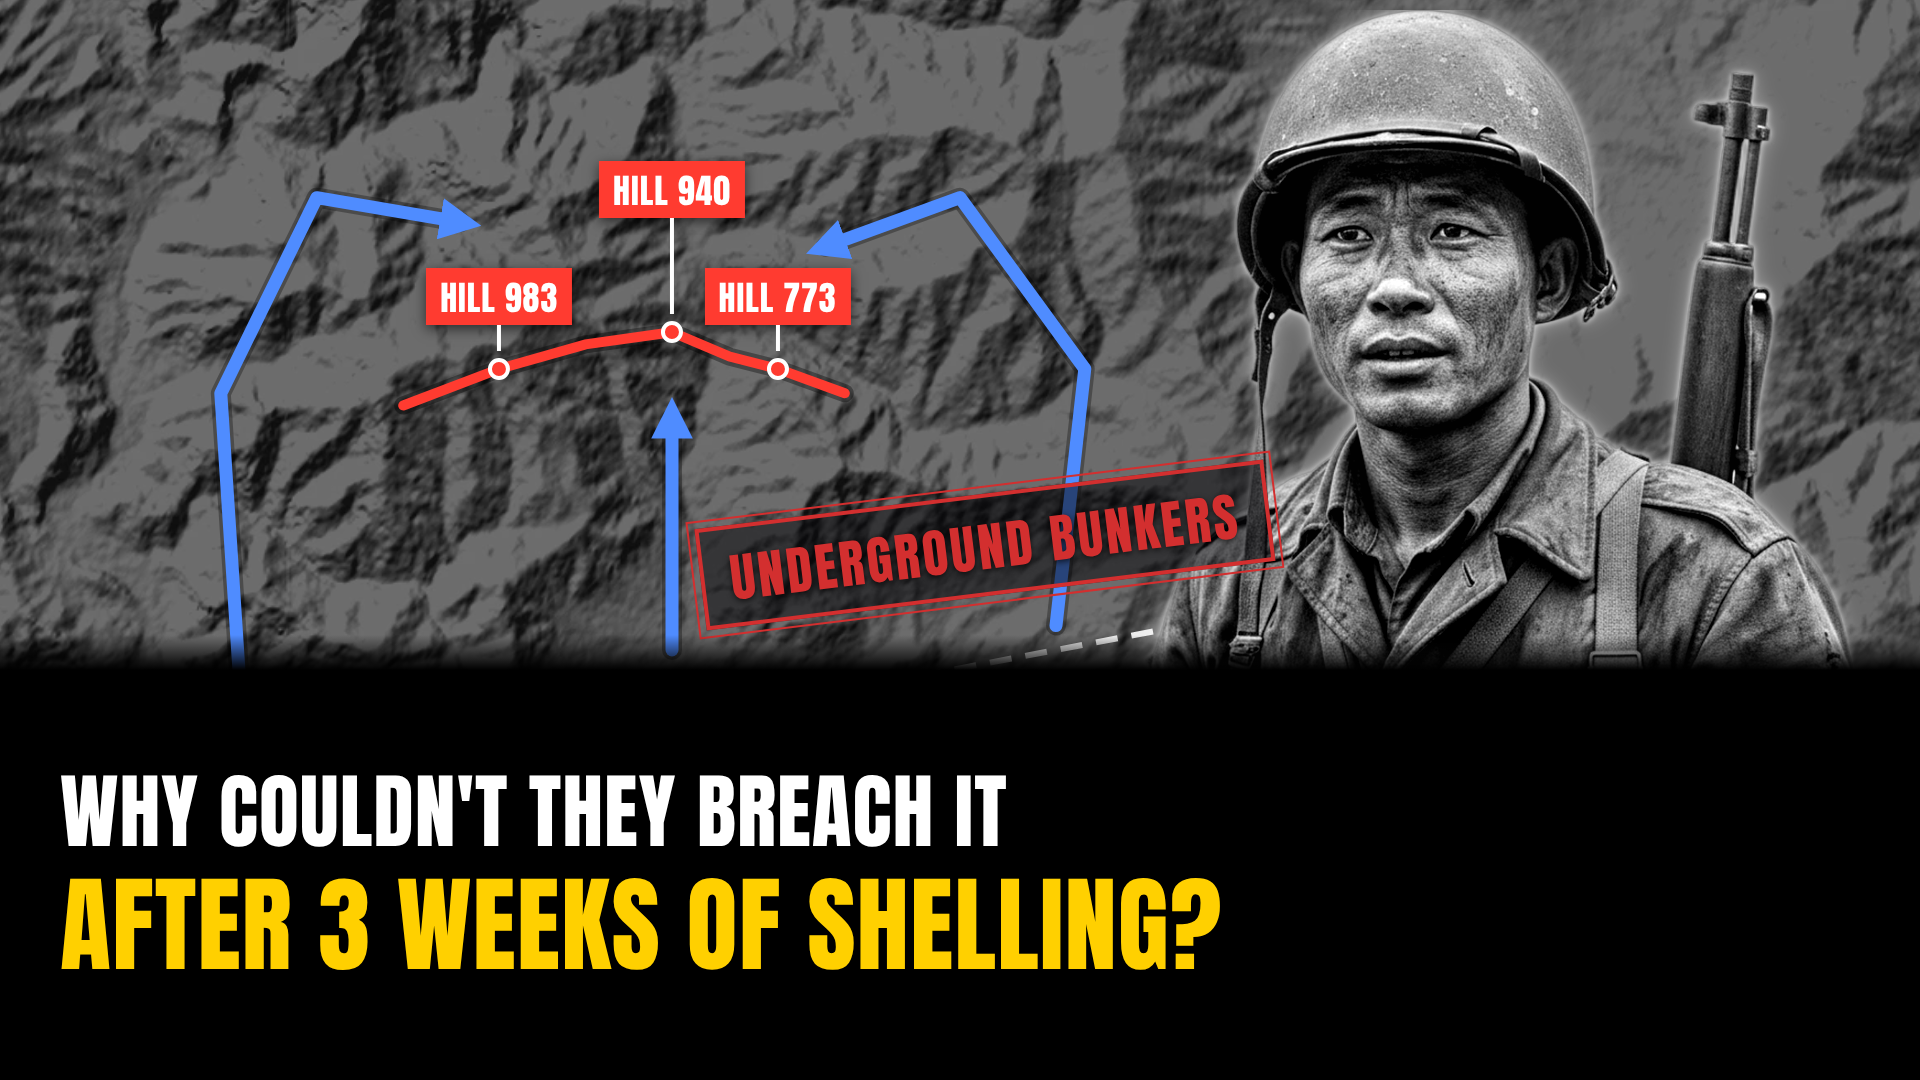
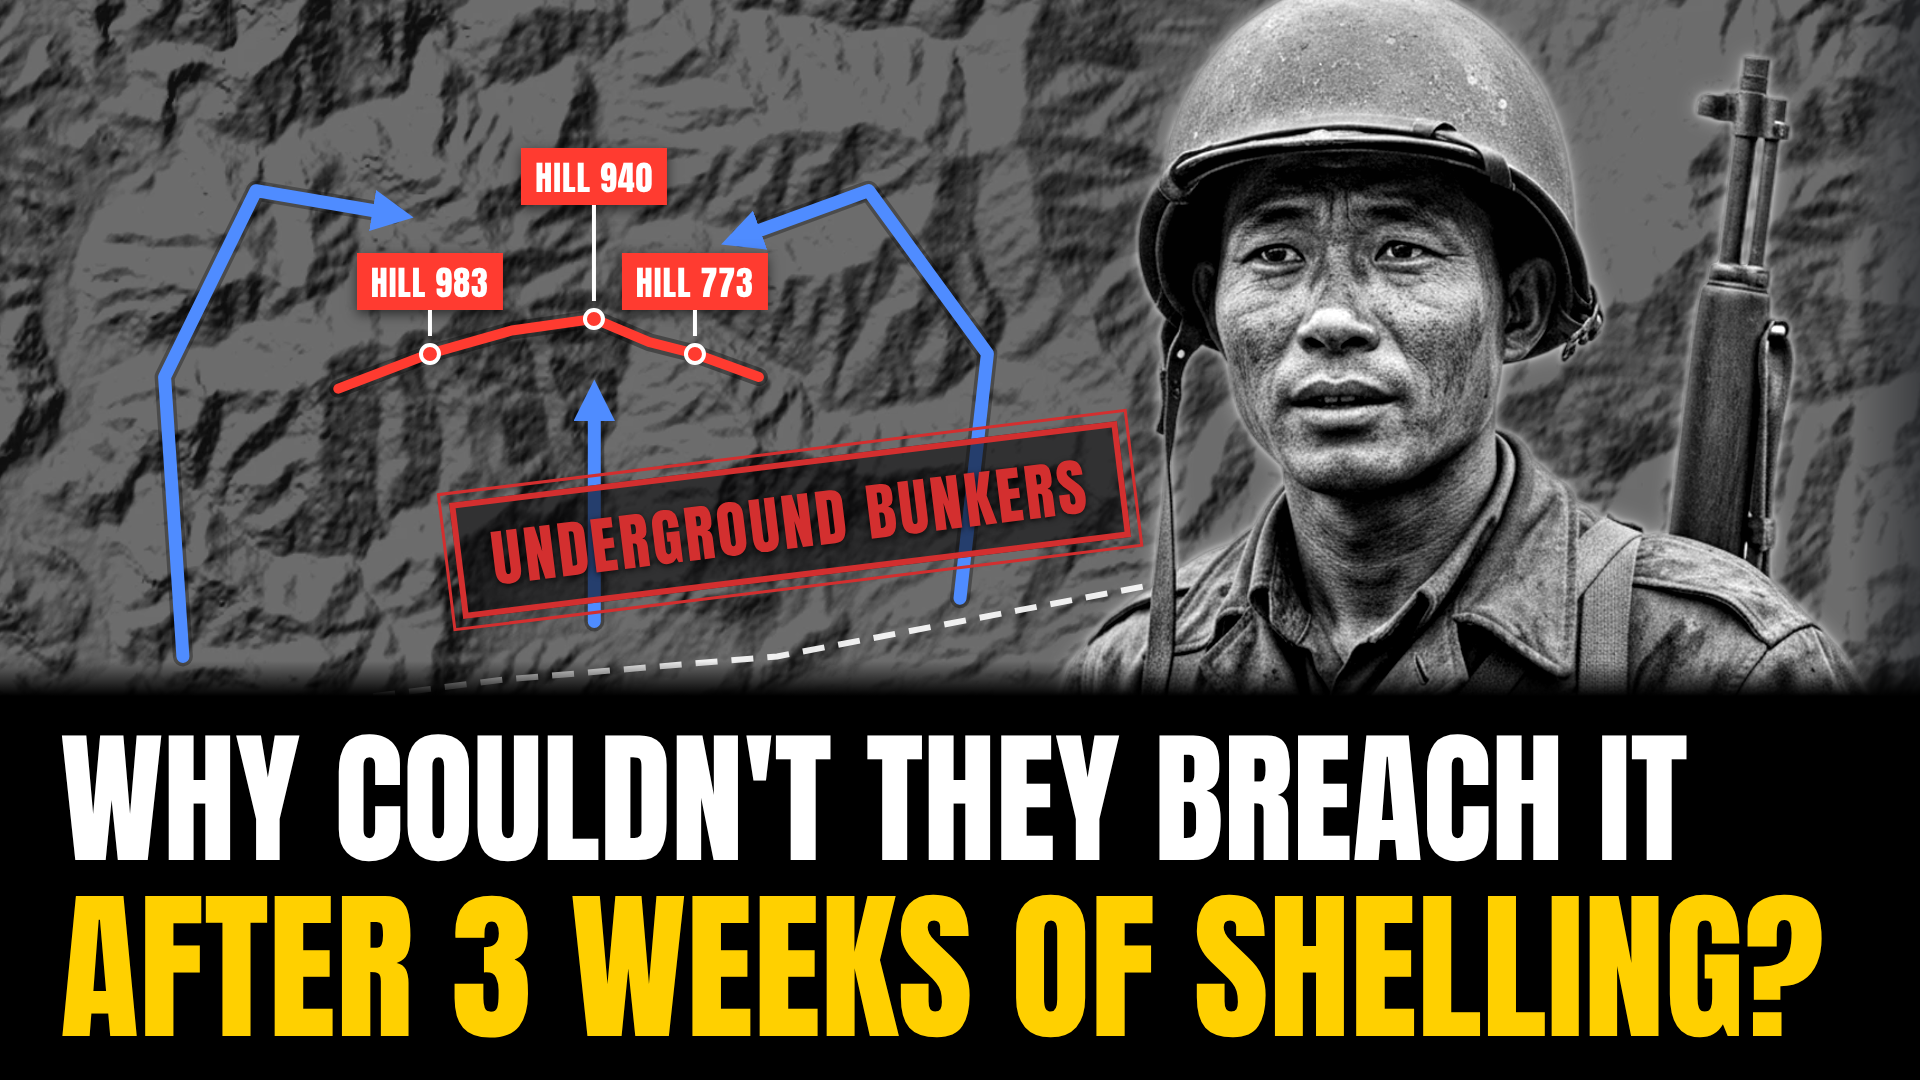
썸네일 표준: 글자를 실측 폭으로 가로 꽉 채우기, 인물·스탬프 크게 (레퍼런스 '역사 사랑방')
- 글꼴 실측(canvas)으로 Line1 88% · Line2 92% 폭에 맞춰 크기 자동 계산
- 블랙 판 높이를 글자에 맞춰 자동, 빈 여백 최소화
- 인물 얼굴 위주로 확대, 스탬프 크게 + 얼굴을 가리지 않는 위치
- EP09 썸네일 재렌더

Claude-Session: https://claude.ai/code/session_01JGJfLxRSnz7oWngHTUM9Yy

diff --git a/remotion/MapThumb.tsx b/remotion/MapThumb.tsx
@@ -31,7 +31,7 @@ export type MapThumbDef = {
 export const MAPT: Record<string, MapThumbDef> = {
   bloodyridge: {
     raster: "bloody_zoom",
-    view: { center: [128.07, 38.238], span: 0.2 },
+    view: { center: [128.08, 38.236], span: 0.21 },
     items: [
       { k: "front", path: [[127.97, 38.214], [128.0, 38.221], [128.03, 38.224], [128.06, 38.226], [128.1, 38.232], [128.14, 38.238]] },
       { k: "ridge", path: [[128.012, 38.249], [128.022, 38.252], [128.031, 38.254], [128.04, 38.255], [128.046, 38.253], [128.051, 38.252], [128.058, 38.25]] },
@@ -42,7 +42,7 @@ export const MAPT: Record<string, MapThumbDef> = {
       { k: "pin", p: [128.04, 38.255], text: { ko: "940고지", en: "HILL 940" }, color: "red", lift: 70 },
       { k: "pin", p: [128.051, 38.252], text: { ko: "773고지", en: "HILL 773" }, color: "red" },
     ],
-    stampPos: { x: 985, y: 545, rot: -7 },
+    stampPos: { x: 790, y: 520, rot: -7 },
     // ※ 사용자 제안 '포탄 36만 발'은 사료 확인 불가 → 확인된 결정적 요인으로 대체 (출처 확인 시 아래 3줄만 교체)
     ko: { stamp: "땅속 벙커", line1: "압도적 포격을 쏟아붓고도 왜", line2: "3주 동안 뚫지 못했을까?" },
     en: { stamp: "UNDERGROUND BUNKERS", line1: "WHY COULDN'T THEY BREACH IT", line2: "AFTER 3 WEEKS OF SHELLING?" },
@@ -51,7 +51,6 @@ export const MAPT: Record<string, MapThumbDef> = {
 
 const W = 1920;
 const H = 1080;
-const PANEL_TOP = Math.round(H * 0.62); // 하단 38% 솔리드 블랙 판 시작 (y≈670)
 const STAMP_RED = "#D32F2F";
 const YELLOW = "#FFD000";
 const merc = (lat: number) => Math.log(Math.tan(Math.PI / 4 + (lat * Math.PI) / 360));
@@ -67,6 +66,24 @@ const estW = (t: string, en: boolean) =>
   }, 0);
 const fit = (t: string, en: boolean, max: number, min: number, width: number) =>
   Math.max(min, Math.min(max, Math.floor(width / Math.max(1, estW(t, en)))));
+
+/** 글꼴을 실제로 불러온 뒤 canvas로 100px 기준 폭을 잰다 → 화면 폭에 맞는 글자 크기 계산용 (em 단위 폭 반환) */
+const useMeasured = (texts: string[], font: string): number[] => {
+  const [w, setW] = useState<number[]>([]);
+  const [hd] = useState(() => delayRender("measure-text"));
+  useEffect(() => {
+    const fam = font.split(",")[0];
+    Promise.all([document.fonts.load(`100px ${fam}`, texts.join("")), document.fonts.ready])
+      .then(() => {
+        const ctx = document.createElement("canvas").getContext("2d")!;
+        ctx.font = `100px ${font}`;
+        setW(texts.map((t) => ctx.measureText(t).width / 100));
+      })
+      .catch(() => setW([]))
+      .finally(() => continueRender(hd));
+  }, [texts.join("|"), font]);
+  return w;
+};
 
 type RasterMeta = { name: string; file: string; west: number; east: number; north: number; south: number };
 let RASTERS: RasterMeta[] | null = null;
@@ -92,11 +109,16 @@ export const MapThumb: React.FC<{ a: string; d: MapThumbDef; en?: boolean }> = (
   const P = ([lon, lat]: LL) => `${X(lon).toFixed(1)},${Y(lat).toFixed(1)}`;
   const r = meta?.find((m) => m.name === d.raster);
   const head = en ? "'Anton', 'Bebas Neue', sans-serif" : "'Black Han Sans', sans-serif";
-  // 하단 솔리드 블랙 판 위 2줄: Line1 82px / Line2 105px (가로 90% = 1,728px를 넘을 때만 자동 축소)
-  const l1 = fit(c.line1, !!en, 82, 64, W * 0.9);
-  const l2 = fit(c.line2, !!en, 105, 80, W * 0.9);
+  // 하단 2줄은 실제 글꼴로 폭을 재서 가로를 꽉 채운다 (레퍼런스 '역사 사랑방': 글자가 화면 폭의 약 90%)
+  const [m1, m2] = useMeasured([c.line1, c.line2], head);
+  let l2 = Math.min(190, Math.floor((W * 0.92) / m2));
+  let l1 = Math.min(160, Math.floor((W * 0.88) / m1));
+  if (l1 > l2 / 1.12) l1 = Math.floor(l2 / 1.12); // Line 2가 항상 더 크게
+  if (!m1 || !m2) { l1 = fit(c.line1, !!en, 120, 64, W * 0.88); l2 = fit(c.line2, !!en, 140, 80, W * 0.92); }
+  const PAD = 26;
+  const panelTop = Math.round(H - (PAD * 2 + l1 * 1.06 + l2 * 1.06 + 6));
   const st = d.stampPos || { x: 760, y: 120, rot: -7 };
-  const sx = d.subjectX ?? 1500;
+  const sx = d.subjectX ?? 1460;
   const col = (k?: string) => (k === "blue" ? "#4f8cff" : "#ff3b30");
   return (
     <AbsoluteFill style={{ background: "#2a2c30", overflow: "hidden" }}>
@@ -157,8 +179,8 @@ export const MapThumb: React.FC<{ a: string; d: MapThumbDef; en?: boolean }> = (
         src={staticFile(`ep/${a}/ai/thumb_subject.png`)}
         style={{
           position: "absolute",
-          height: 900,
-          top: 10,
+          height: 1100,
+          top: -20,
           left: sx,
           transform: "translateX(-50%)",
           WebkitMaskImage: "linear-gradient(to bottom, black 70%, transparent 100%)",
@@ -171,17 +193,17 @@ export const MapThumb: React.FC<{ a: string; d: MapThumbDef; en?: boolean }> = (
         style={{
           position: "absolute",
           left: st.x,
-          top: st.y,
+          top: Math.min(st.y, panelTop - 80),
           transform: `translate(-50%,-50%) rotate(${st.rot ?? -7}deg)`,
-          border: `4px solid ${STAMP_RED}`,
-          outline: `2px solid ${STAMP_RED}`,
-          outlineOffset: 6,
-          background: "rgba(10,10,12,.55)",
-          padding: "10px 26px 6px",
+          border: `6px solid ${STAMP_RED}`,
+          outline: `3px solid ${STAMP_RED}`,
+          outlineOffset: 8,
+          background: "rgba(10,10,12,.6)",
+          padding: "8px 30px 4px",
           color: STAMP_RED,
           fontFamily: head,
           fontWeight: 400, /* Black Han Sans·Anton은 단일 굵기의 최중량 서체 — 900 지정 시 가짜 볼드로 글자 속이 메워짐 */
-          fontSize: en ? 52 : 50,
+          fontSize: en ? 62 : 86,
           letterSpacing: en ? 3 : 2,
           whiteSpace: "nowrap",
           textShadow: "0 2px 6px rgba(0,0,0,.7)",
@@ -190,21 +212,21 @@ export const MapThumb: React.FC<{ a: string; d: MapThumbDef; en?: boolean }> = (
         {c.stamp}
       </div>
       {/* Layer 5: 하단 38% 솔리드 블랙 판(불투명 100%) + 경계 35px 페이드 — 지형·작전선·인물이 글자 뒤로 비치지 않게 */}
-      <div style={{ position: "absolute", left: 0, right: 0, top: PANEL_TOP - 35, height: 35, background: "linear-gradient(to bottom, rgba(0,0,0,0) 0%, #000000 100%)" }} />
-      <div style={{ position: "absolute", left: 0, right: 0, top: PANEL_TOP, bottom: 0, background: "#000000" }} />
+      <div style={{ position: "absolute", left: 0, right: 0, top: panelTop - 35, height: 35, background: "linear-gradient(to bottom, rgba(0,0,0,0) 0%, #000000 100%)" }} />
+      <div style={{ position: "absolute", left: 0, right: 0, top: panelTop, bottom: 0, background: "#000000" }} />
       {/* Layer 6: 블랙 판 위 2줄 질문형 카피 (좌측 60px부터 가로로 크게) */}
-      <div style={{ position: "absolute", left: 60, right: 60, top: PANEL_TOP, bottom: 0, display: "flex", flexDirection: "column", justifyContent: "center" }}>
-        <div style={{ fontFamily: head, fontWeight: 400, /* Black Han Sans·Anton은 단일 굵기의 최중량 서체 — 900 지정 시 가짜 볼드로 글자 속이 메워짐 */ fontSize: l1, lineHeight: 1.12, color: "#FFFFFF", whiteSpace: "nowrap", letterSpacing: en ? 1 : -1, textShadow: "0 4px 12px rgba(0,0,0,0.8)" }}>{c.line1}</div>
+      <div style={{ position: "absolute", left: 60, right: 0, top: panelTop, bottom: 0, display: "flex", flexDirection: "column", justifyContent: "center" }}>
+        <div style={{ fontFamily: head, fontWeight: 400, /* Black Han Sans·Anton은 단일 굵기의 최중량 서체 — 900 지정 시 가짜 볼드로 글자 속이 메워짐 */ fontSize: l1, lineHeight: 1.06, color: "#FFFFFF", whiteSpace: "nowrap", letterSpacing: 0, textShadow: "0 4px 12px rgba(0,0,0,0.8)" }}>{c.line1}</div>
         <div
           style={{
             fontFamily: head,
             fontWeight: 400, /* Black Han Sans·Anton은 단일 굵기의 최중량 서체 — 900 지정 시 가짜 볼드로 글자 속이 메워짐 */
             fontSize: l2,
-            lineHeight: 1.12,
-            marginTop: 8,
+            lineHeight: 1.06,
+            marginTop: 6,
             color: YELLOW,
             whiteSpace: "nowrap",
-            letterSpacing: en ? 1 : -1,
+            letterSpacing: 0,
             WebkitTextStroke: "3px #000000",
             paintOrder: "stroke fill",
             textShadow: "0 6px 18px rgba(0,0,0,0.95), 0 2px 4px rgba(0,0,0,0.9)",

diff --git a/CLAUDE.md b/CLAUDE.md
@@ -80,17 +80,18 @@
    - **레이어 구조 (1920×1080)**
      1. 배경: 흑백 3D 지형 — 에피소드 지형 래스터(`public/geo/<raster>.webp`, 보통 `<ep>_zoom`)를 `grayscale(1) brightness(0.45) contrast(1.2)` (2026-10-26 수정: 지도 밝기 대폭 하향). `view.span`은 래스터가 2배 넘게 확대되지 않게(질감 뭉개짐) 0.2 안팎
      2. 작전선: 전선 흰 점선(`front`), 핵심 능선·목표(`ridge`), 거점 핀(`pin`, 라벨 겹치면 `lift`), 진격 화살표(`arrow`, red/blue) — 좌표는 스토리보드와 동일하게
-     3. 피사체: 전장 핵심 지휘관 또는 상징적 인물 **흑백 누끼**를 우측 40~45% 영역(`subjectX` 기본 1500, 높이 900)에, 외곽은 흰 림 라이트만(**주황 글로우 금지**, 2026-10-26). 인물 하단은 `mask-image: linear-gradient(to bottom, black 70%, transparent 100%)`로 블랙 판 속으로 사라지게. 실존 인물은 저작권·초상 문제가 없는 공개 사진만, 아니면 상징적 병사를 AI로
+     3. 피사체: 전장 핵심 지휘관 또는 상징적 인물 **흑백 누끼**를 **얼굴 위주로 크게**(높이 1100, top -20 — 머리가 화면 위쪽에 닿을 만큼) 우측(`subjectX` 기본 1460)에, 외곽은 흰 림 라이트만(**주황 글로우 금지**, 2026-10-26). 인물 하단은 `mask-image: linear-gradient(to bottom, black 70%, transparent 100%)`로 블랙 판 속으로 사라지게. 실존 인물은 저작권·초상 문제가 없는 공개 사진만, 아니면 상징적 병사를 AI로
         - 그림: 스토리보드 `ai_images.thumb_subject` 프롬프트 — "photorealistic black-and-white, waist-up, face clearly visible and turned slightly toward the left of the frame, isolated on a plain pure white background, no shadows on the background, no text"
         - `mode=thumb`가 그림 생성 후 `rembg`로 배경 제거 → `public/ep/<ep>/ai/thumb_subject.png` (rembg 실패 시 흰 배경 알파로 자동 대체)
-     4. 스탬프: 승패의 결정적 요인을 암시하는 붉은 사각 스탬프 — `rotate(-6~-8deg)`, `border: 4px solid #D32F2F`, 글자 48~54px 굵게 `#D32F2F`(또는 머스터드 옐로). 중앙 또는 인물 측면(`stampPos`, 중심 좌표 기준), 핀·화살표·얼굴과 겹치지 않게
-     5. **하단 솔리드 블랙 판 (2026-10-26 수정, 레퍼런스 '역사 사랑방' 구조)**: 캔버스 하단 38%(y≈670~1080)를 불투명 100% `#000000`으로 완전 차단 — 지형·작전선·인물이 글자 뒤로 비치지 않게. 지도와 경계는 35px 페이드로만 연결 (반투명 그라데이션 방식 폐지)
+     4. 스탬프: 승패의 결정적 요인을 암시하는 붉은 사각 스탬프 — `rotate(-6~-8deg)`, **큼직하게**(2026-10-26: 테두리 6px + 바깥선 3px `#D32F2F`, 글자 한 86px / 영 62px). 지도 위 인물 왼쪽(`stampPos`, 중심 좌표 기준 — EP09는 x 790·y 520). **인물 얼굴·입을 절대 가리지 말 것** (얼굴 옆에 두면 영문처럼 긴 스탬프가 입을 덮음), 블랙 판보다 80px 이상 위에 자동 고정
+     5. **하단 솔리드 블랙 판 (2026-10-26 수정, 레퍼런스 '역사 사랑방' 구조)**: 불투명 100% `#000000` — 지형·작전선·인물이 글자 뒤로 비치지 않게. 판 높이는 글자 크기에 맞춰 자동(글자 2줄 + 위아래 26px 여백, EP09는 약 38%). 지도와 경계는 35px 페이드로만 연결 (반투명 그라데이션 방식 폐지)
      6. 텍스트: 블랙 판 안에서 세로 가운데, 좌측 60px부터 2줄 질문형 카피 (구석 정렬 금지)
    - **타이포그래피·색**
      - 폰트: 한국어 `Black Han Sans`(Pretendard Black 대체 가능) / 영문 `Anton`(@fontsource/anton)
-     - Line 1 (상황·전제): **82px**, 스톤 화이트 `#FFFFFF`, `text-shadow: 0 4px 12px rgba(0,0,0,0.8)`
-     - Line 2 (호기심 질문): **105px**(Line 1보다 크게), 머스터드 옐로 `#FFD000`, `-webkit-text-stroke: 3px #000` + 강한 그림자
-     - 가로 폭 목표 85~90%. 그보다 길면 자동 축소(`fit`, 최대 가로 90%)
+     - ★ **꽉 찬 글자 (2026-10-26 사용자 요청 — '꽉 차 보이게, 누르고 싶게')**: 글자 크기는 고정 px가 아니라 **실제 글꼴 폭을 재서 가로를 꽉 채우도록 자동 계산**(`useMeasured`). Line 1 = 화면 폭 88%, Line 2 = 92% (상한 160/190px). Line 2는 항상 Line 1보다 12% 이상 크게. EP09 결과: 한 Line 1 약 140px · Line 2 약 160px
+     - Line 1 (상황·전제): 스톤 화이트 `#FFFFFF`, `text-shadow: 0 4px 12px rgba(0,0,0,0.8)`
+     - Line 2 (호기심 질문): 머스터드 옐로 `#FFD000`, `-webkit-text-stroke: 3px #000` + 강한 그림자
+     - 줄 간격 1.06, 자간 0 (빈틈 없이 빽빽하게). 카피가 짧을수록 글자가 커지므로 Line 2는 10~14자 안팎이 적당
      - ⚠ 굵기: Black Han Sans·Anton은 **단일 굵기(최중량) 서체** → `font-weight: 400`으로 둘 것. 900을 주면 브라우저 가짜 볼드로 한글 받침·빈 공간이 메워져 뭉개짐 (2026-10-26 확인)
    - **카피 자동 생성 공식 (Curiosity-Gap)** — 새 에피소드 대본·파이프라인을 만들 때 썸네일 카피를 이 공식으로 함께 도출해 `MAPT`에 넣는다
      - 스탬프: [승패를 가른 결정적 요인 2~4단어]
